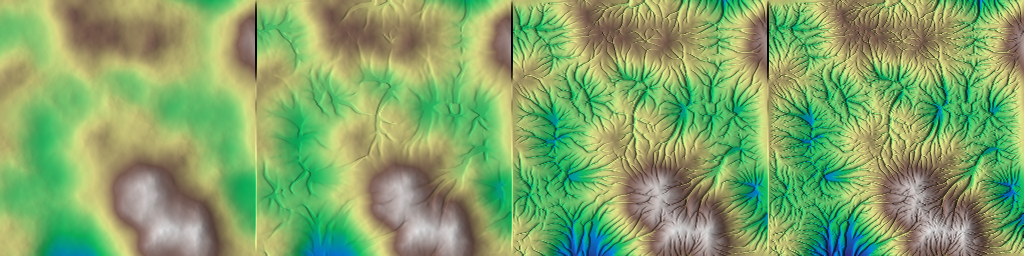
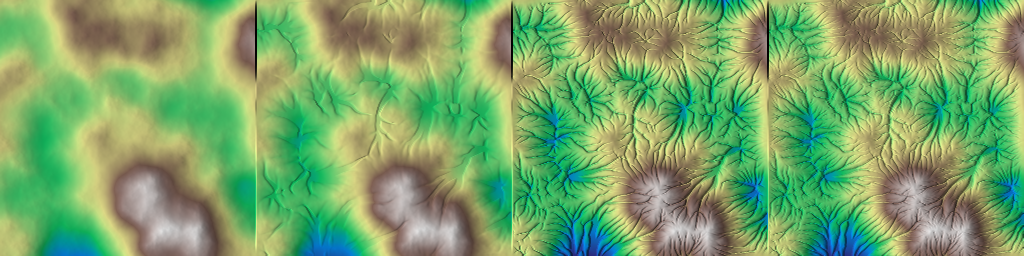
Add persistance to upscale amplification

diff --git a/HighMap/src/erosion/hydraulic_stream_upscale_amplification.cpp b/HighMap/src/erosion/hydraulic_stream_upscale_amplification.cpp
@@ -18,13 +18,16 @@ void hydraulic_stream_upscale_amplification(Array &z,
                                             float  c_erosion,
                                             float  talus_ref,
                                             int    upscaling_levels,
+                                            float  persistence,
                                             int    ir,
                                             float  clipping_ratio)
 {
-  auto lambda_erode = [c_erosion, talus_ref, ir, clipping_ratio](Array &x)
+  auto lambda_erode =
+      [c_erosion, talus_ref, ir, clipping_ratio](Array &x,
+                                                 float  current_scaling)
   {
     hydraulic_stream(x,
-                     c_erosion,
+                     current_scaling * c_erosion,
                      talus_ref,
                      nullptr,
                      nullptr,
@@ -33,7 +36,7 @@ void hydraulic_stream_upscale_amplification(Array &z,
                      clipping_ratio);
   };
 
-  upscale_amplification(z, upscaling_levels, lambda_erode);
+  upscale_amplification(z, upscaling_levels, persistence, lambda_erode);
 }
 
 void hydraulic_stream_upscale_amplification(Array &z,
@@ -41,6 +44,7 @@ void hydraulic_stream_upscale_amplification(Array &z,
                                             float  c_erosion,
                                             float  talus_ref,
                                             int    upscaling_levels,
+                                            float  persistence,
                                             int    ir,
                                             float  clipping_ratio)
 {
@@ -49,6 +53,7 @@ void hydraulic_stream_upscale_amplification(Array &z,
                                            c_erosion,
                                            talus_ref,
                                            upscaling_levels,
+                                           persistence,
                                            ir,
                                            clipping_ratio);
   else
@@ -58,6 +63,7 @@ void hydraulic_stream_upscale_amplification(Array &z,
                                            c_erosion,
                                            talus_ref,
                                            upscaling_levels,
+                                           persistence,
                                            ir,
                                            clipping_ratio);
     z = lerp(z, z_f, *(p_mask));

diff --git a/HighMap/include/highmap/erosion.hpp b/HighMap/include/highmap/erosion.hpp
@@ -508,6 +508,9 @@ void hydraulic_stream(Array &z,
  * exponent. Smaller values lead to thinner flow streams.
  * @param upscaling_levels Number of upscaling levels to apply. The function
  * will resample the array at each level.
+ * @param persistence A scaling factor applied at each level to adjust the
+ * impact of the unary operation. Higher persistence values will amplify the
+ * effects at each level.
  * @param ir Kernel radius. If `ir > 1`, a cone kernel is used to carve channel
  * flow erosion.
  * @param clipping_ratio Flow accumulation clipping ratio.
@@ -526,6 +529,7 @@ void hydraulic_stream_upscale_amplification(Array &z,
                                             float  c_erosion,
                                             float  talus_ref,
                                             int    upscaling_levels = 1,
+                                            float  persistence = 1.f,
                                             int    ir = 1,
                                             float  clipping_ratio = 10.f);
 
@@ -545,6 +549,9 @@ void hydraulic_stream_upscale_amplification(Array &z,
  * exponent. Smaller values lead to thinner flow streams.
  * @param upscaling_levels Number of upscaling levels to apply. The function
  * will resample the array at each level.
+ * @param persistence A scaling factor applied at each level to adjust the
+ * impact of the unary operation. Higher persistence values will amplify the
+ * effects at each level.
  * @param ir Kernel radius. If `ir > 1`, a cone kernel is used to carve channel
  * flow erosion.
  * @param clipping_ratio Flow accumulation clipping ratio.
@@ -564,6 +571,7 @@ void hydraulic_stream_upscale_amplification(
     float  c_erosion,
     float  talus_ref,
     int    upscaling_levels = 1,
+    float  persistence = 1.f,
     int    ir = 1,
     float  clipping_ratio = 10.f); ///< @overload
 

diff --git a/HighMap/include/highmap/upscale_amplification.hpp b/HighMap/include/highmap/upscale_amplification.hpp
@@ -30,6 +30,9 @@ namespace hmap
  * @param array A reference to the array that will be upscaled and processed.
  * @param upscaling_levels The number of upscaling levels to apply. The function
  * will resample the array for each level.
+ * @param persistence A scaling factor applied at each level to adjust the
+ * impact of the unary operation. Higher persistence values will amplify the
+ * effects at each level.
  * @param unary_op A user-defined unary operation to apply to the array at each
  * upscaling level. The operation takes a reference to the array.
  *
@@ -38,8 +41,10 @@ namespace hmap
  * levels are processed, the array is resampled back to its initial shape using
  * bilinear interpolation.
  */
-void upscale_amplification(Array                        &array,
-                           int                           upscaling_levels,
-                           std::function<void(Array &x)> unary_op);
+void upscale_amplification(
+    Array                                               &array,
+    int                                                  upscaling_levels,
+    float                                                persistence,
+    std::function<void(Array &x, float current_scaling)> unary_op);
 
 } // namespace hmap

diff --git a/HighMap/src/upscale_amplification/upscale_amplification.cpp b/HighMap/src/upscale_amplification/upscale_amplification.cpp
@@ -8,9 +8,11 @@
 namespace hmap
 {
 
-void upscale_amplification(Array                        &array,
-                           int                           upscaling_levels,
-                           std::function<void(Array &x)> unary_op)
+void upscale_amplification(
+    Array                                               &array,
+    int                                                  upscaling_levels,
+    float                                                persistence,
+    std::function<void(Array &x, float current_scaling)> unary_op)
 {
   Vec2<int> initial_shape = array.shape;
 
@@ -18,9 +20,10 @@ void upscale_amplification(Array                        &array,
   for (int k = 0; k < upscaling_levels + 1; k++)
   {
     Vec2<int> upscaled_shape = std::pow(2, k) * initial_shape;
+    float     current_scaling = std::pow(persistence, k);
 
     array = array.resample_to_shape_bicubic(upscaled_shape);
-    unary_op(array);
+    unary_op(array, current_scaling);
   }
 
   // go back to original resolution (bilinear interpolation)

diff --git a/examples/ex_hydraulic_stream_upscale_amplification/ex_hydraulic_stream_upscale_amplification.cpp b/examples/ex_hydraulic_stream_upscale_amplification/ex_hydraulic_stream_upscale_amplification.cpp
@@ -25,10 +25,12 @@ int main(void)
 
   auto z3 = z;
   upscaling_levels = 3;
+  float persistence = 0.75f; // decrease ratio of erosion coeff at each level
   hmap::hydraulic_stream_upscale_amplification(z3,
                                                c_erosion,
                                                talus_ref,
-                                               upscaling_levels);
+                                               upscaling_levels,
+                                               persistence);
 
   hmap::export_banner_png("ex_hydraulic_stream_upscale_amplification.png",
                           {z0, z1, z2, z3},
